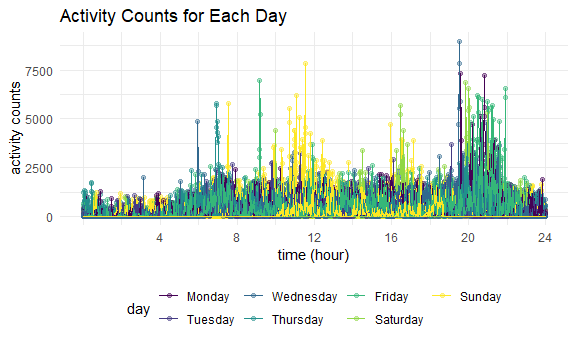
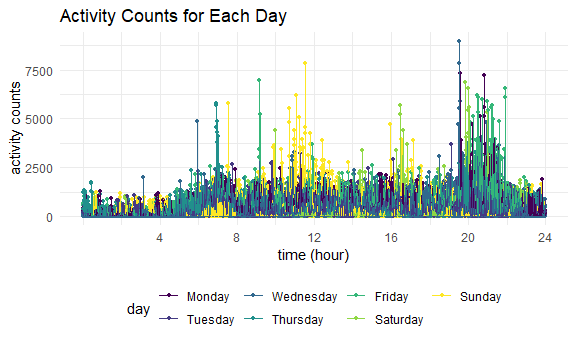
revise the plot and reinterprete it

Changed region(s): [[0.125, 0.2609, 0.9688, 0.6377], [0.7812, 0.2319, 0.8125, 0.2609], [0.375, 0.2899, 0.4062, 0.3188]]

diff --git a/p8105_hw3_yj2622.md b/p8105_hw3_yj2622.md
@@ -200,7 +200,7 @@ labels of x axis into hours.
 
 ``` r
 accel_df %>% 
-  ggplot(aes(x = minute, y = n_activ, color = day)) +
+  ggplot(aes(x = minute, y = n_activ, color = day,group = week)) +
   scale_x_continuous(
     breaks = c(240,480,720,960,1200,1440),
     labels = c("4","8","12","16","20","24")
@@ -210,12 +210,8 @@ accel_df %>%
     x = "time (hour)",
     y = "activity counts" 
   ) +
-  geom_point(alpha = .4) +
-  geom_line(data = accel_df %>% filter(week == 1)) +
-  geom_line(data = accel_df %>% filter(week == 2)) +
-  geom_line(data = accel_df %>% filter(week == 3)) +
-  geom_line(data = accel_df %>% filter(week == 4)) +
-  geom_line(data = accel_df %>% filter(week == 5))
+  geom_point(size = 1) +
+  geom_line()
 ```
 
 <img src="p8105_hw3_yj2622_files/figure-gfm/unnamed-chunk-6-1.png" width="90%" />
@@ -224,3 +220,5 @@ Based on the plot above, it can be seen that in general, the man is most
 active at night (about 20 to 22 o’clock) and least active after 22
 o’clock until the next day morning (about 6 o’clock). We can also see
 that he is very active in the noon, about 11 to 12 o’clock, on Sunday.
+Somtimes the man is very active at other time, like about 7:00 on
+Thursday, 7:30 on Sunday, and 16:00 - 17:00 on Saturday and Sunday.
